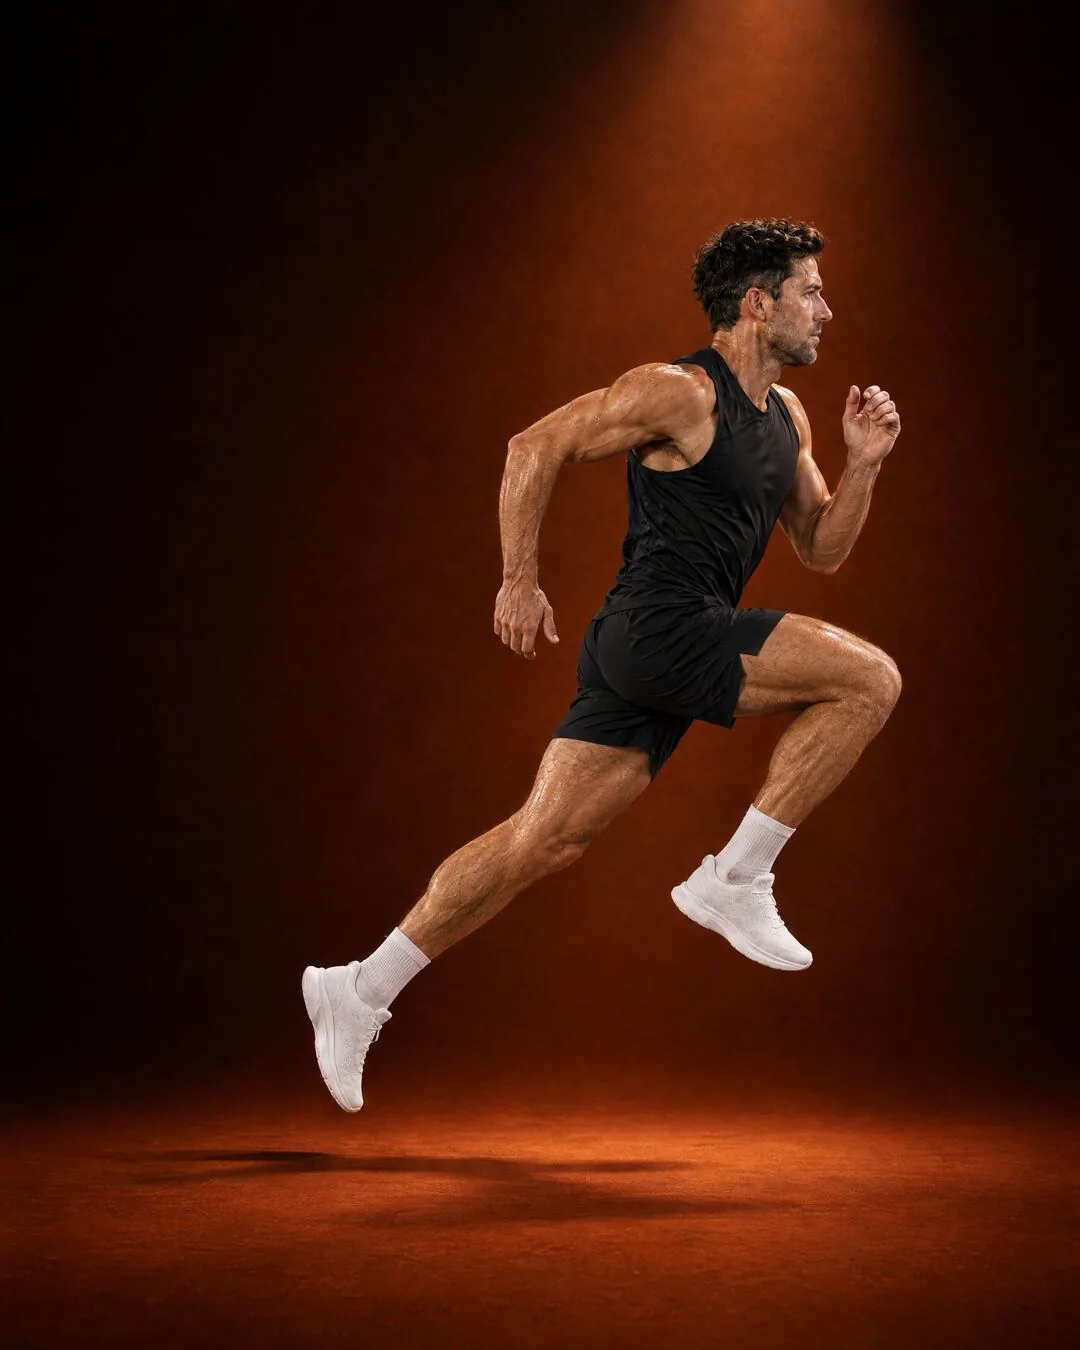
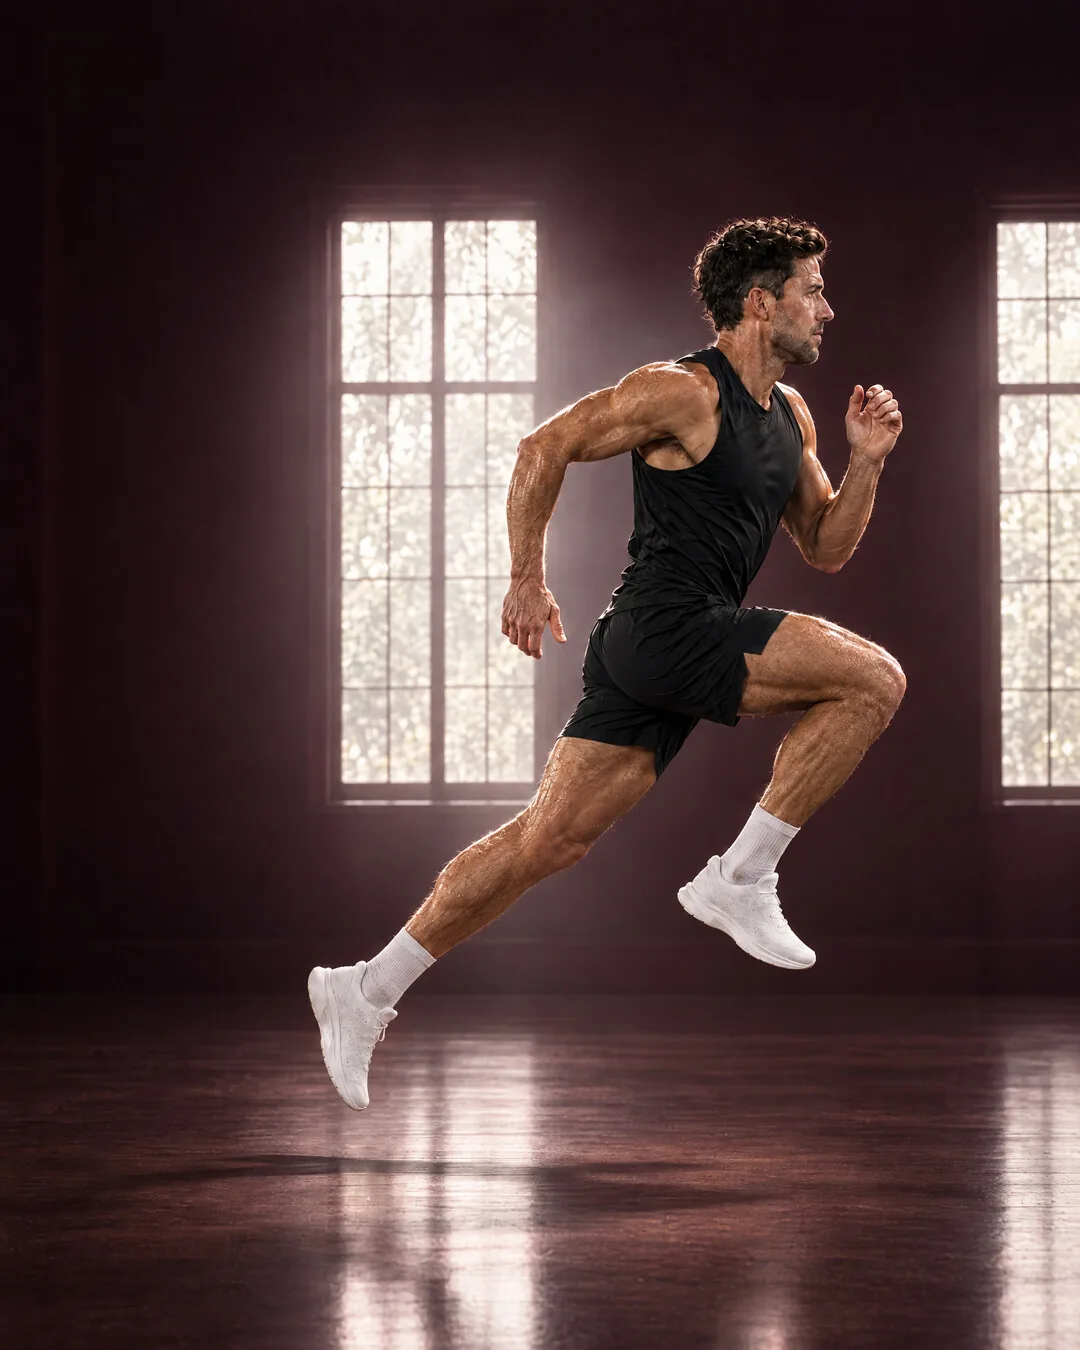
Hero photos: squat, run and coach in the misty burgundy studio
Same HELIX athletes and poses, re-set in the wine-walled studio with soft
window light from the approved welcome screen. Cut-outs rebuilt with tighter,
colour-cleaned edges so hair reads cleanly on light pages.

Claude-Session: https://claude.ai/code/session_016AGgtFPk1bStZ1Kb1YH3qY

diff --git a/packages/core/src/hero.ts b/packages/core/src/hero.ts
@@ -18,7 +18,7 @@ const img = (file: string, alt: string, focus: string, word: string, ink: HeroIn
   ({ src: `/hero/${file}.webp`, cut: cut ? `/hero/${file}-cut.webp` : undefined, alt, focus, word, ink });
 
 export const HERO_IMAGES: Record<HeroImage, HeroArt> = {
-  squat: img("squat", "HELIX athlete in a barbell back squat in a burgundy studio", "center 50%", "Squat", "light"),
+  squat: img("squat", "HELIX athlete in a barbell back squat in a misty burgundy studio", "center 50%", "Squat", "light"),
   lower: img("lower", "HELIX athlete doing a dumbbell split squat off a box in a burgundy studio", "center 60%", "Legs", "light"),
   "hip-thrust": img("hip-thrust", "HELIX athlete at the top of a barbell hip thrust in a burgundy studio", "center 55%", "Glutes", "light"),
   hinge: img("hinge", "HELIX athlete setting up a barbell deadlift in a burgundy studio", "center 55%", "Hinge", "light"),
@@ -34,11 +34,11 @@ export const HERO_IMAGES: Record<HeroImage, HeroArt> = {
   kettlebell: img("kettlebell", "HELIX athlete at the top of a kettlebell swing in a rust-lit studio", "center 45%", "Swing", "light"),
   core: img("core", "HELIX athlete holding a forearm plank under a single studio light", "center 60%", "Core", "light"),
   mobility: img("mobility", "HELIX athlete in a low lunge with a rotation stretch under a single studio light", "center 50%", "Flow", "light"),
-  run: img("run", "HELIX athlete sprinting in a rust-lit studio", "center 45%", "Run", "light"),
+  run: img("run", "HELIX athlete sprinting past tall windows in a misty burgundy studio", "center 45%", "Run", "light"),
   swim: img("swim", "HELIX swimmer taking a breath mid-stroke in a dark pool", "center 50%", "Swim", "light", false),
   ride: img("ride", "HELIX athlete riding a road bike in a rust-lit studio", "center 60%", "Ride", "light"),
   recovery: img("recovery", "HELIX athlete foam rolling under a single warm studio light", "center 65%", "Rest", "light"),
-  coach: img("coach", "Coach talking a HELIX athlete through her plan in a burgundy studio", "center 45%", "Coach", "light"),
+  coach: img("coach", "Coach talking a HELIX athlete through her plan in a misty burgundy studio", "center 45%", "Coach", "light"),
   meal: img("meal", "A chicken, quinoa and avocado bowl on a dark burgundy table", "center 65%", "Fuel", "light", false),
 };
 
